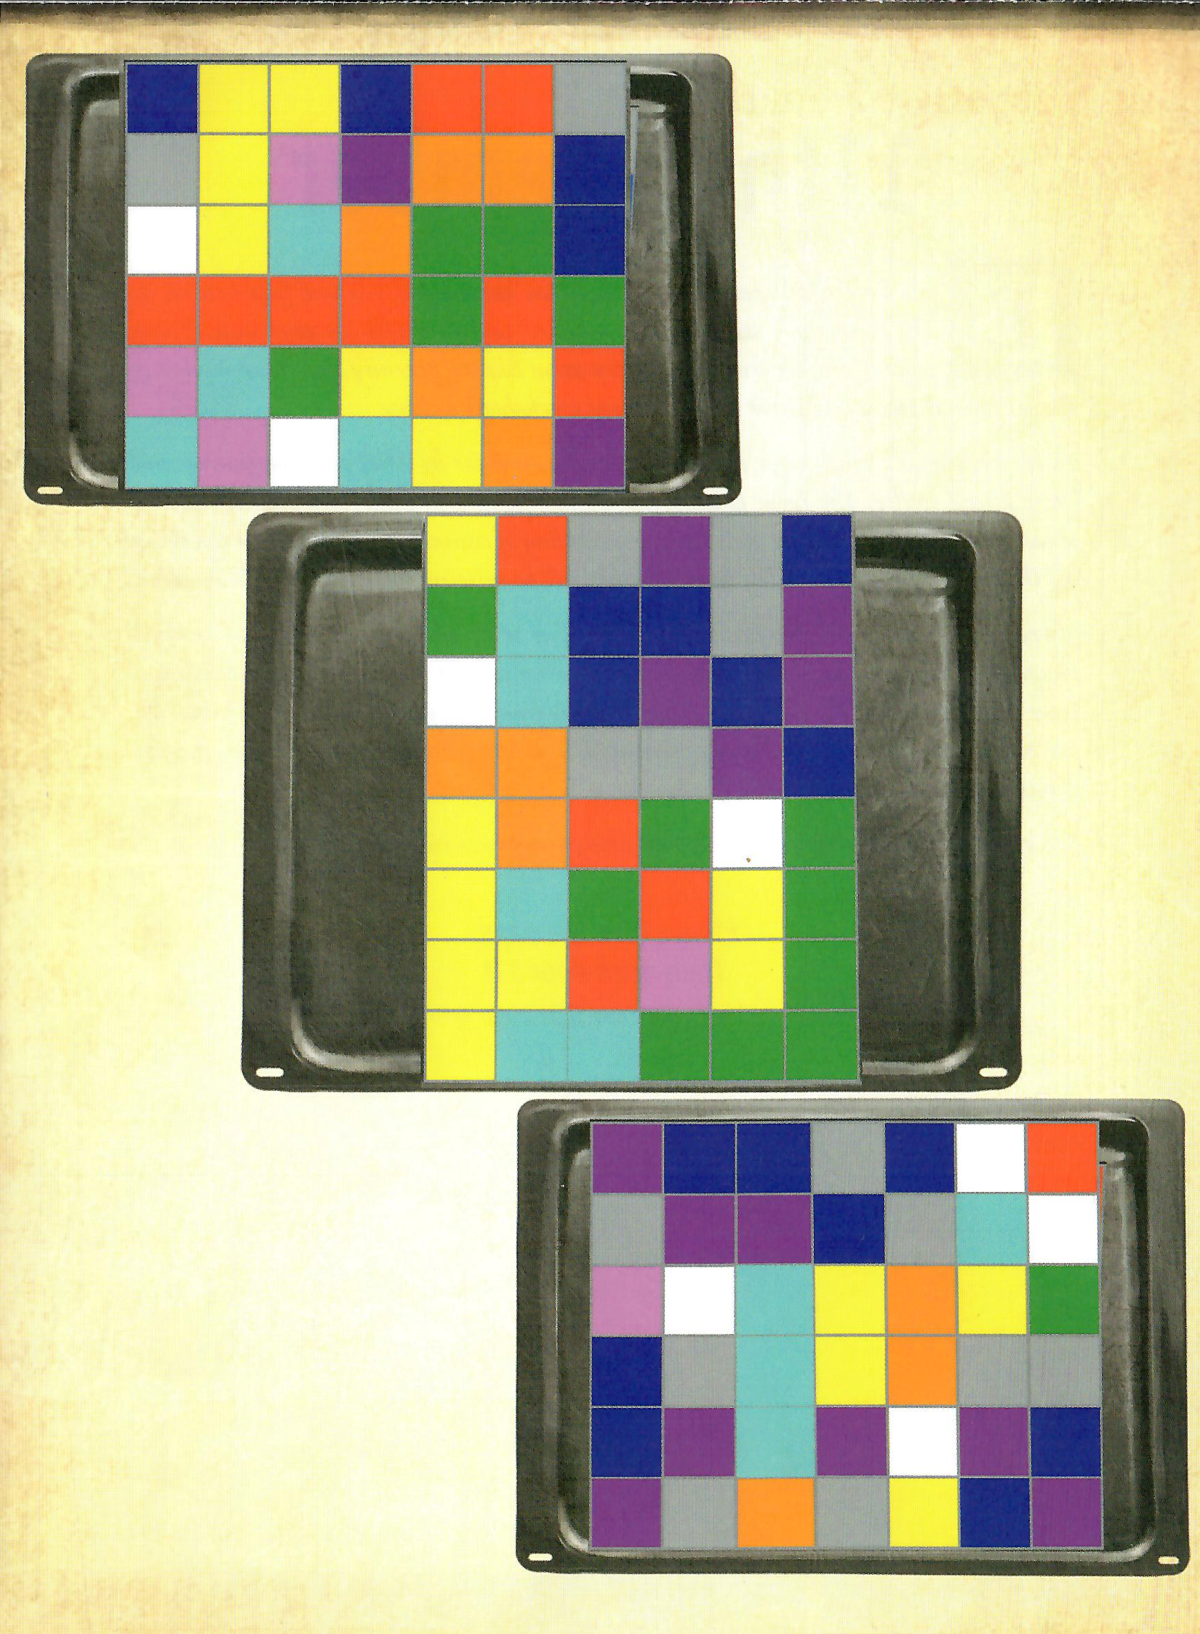
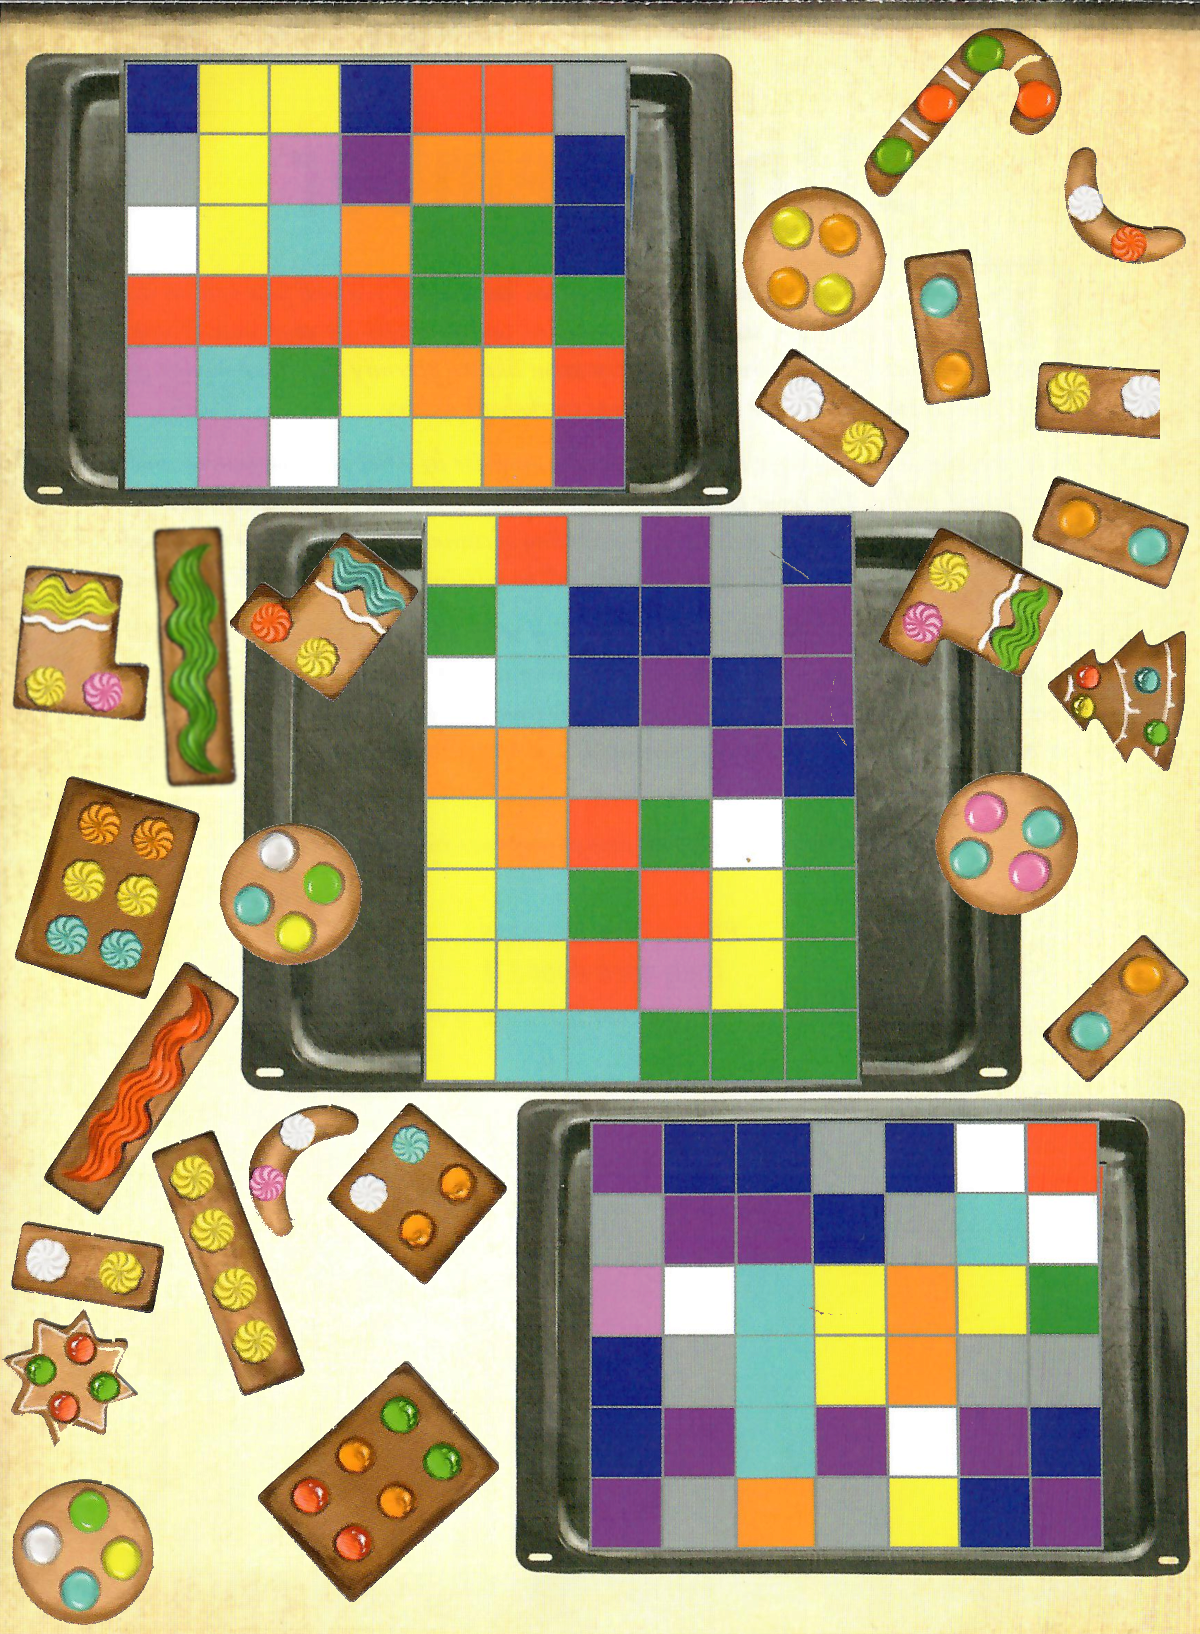
dec11

diff --git a/docs/dec11.html b/docs/dec11.html
@@ -2,3 +2,60 @@
 	<h2>Elfte December</h2>
 	<p>Ha en bra onsdag!</p>
 </section>
+<section>
+	<h2>Den tysta stormen</h2>
+	<p>Här följer dagens instruktioner.</p>
+	<p>&nbsp;</p>
+	<p>Även dessa utgör ett problem, där</p>
+	<p>svaret är ett tresiffrigt tal!</p>
+	<p>&nbsp;</p>
+	<p><a href="https://simplycalc.com/luhn-calculate.php">Checksiffran för koden</a></p>
+	<p>för elfte december är en nia!</p>
+</section>
+<section class="image-slide">
+	<a href="images/dec11a.png" data-lightbox="dec11"><img data-src="images/dec11a.png"></a>
+</section>
+<section>
+	<img data-src="images/rudolf.png">
+	<p>Rudolf har bakat pepparkakor åt tomten</p>
+	<p>Inte vilka vissna kakor som helst heller</p>
+	<p>Han har byggt grejor av olika former!</p>
+	<p>Han är så stolt! Han har glasyr </p>
+	<p>överallt (särskilt på mulen)</p>
+	<p>men just som han skulle ta ut plåtarna</p>
+	<p>hände en liten olycka!</p>
+</section>
+<section class="image-slide">
+	<a href="images/dec11b.png" data-title="Kakplåtar" data-lightbox="dec11"><img data-src="images/dec11b.png"></a>
+</section>
+<section>
+	<p>... alla bilder föll isär!</p>
+	<h2>Katastrof!</h2>
+	<p>Rudolf hade glömt att klistra</p>
+	<p>ihop formerna med glasyr</p>
+	<p>(eller så tog glasyren plötsligt</p><p>slut, obegripligt)</p>
+	<p>Kakorna ser goda ut ändå</p>
+	<p>men bilderna är borta!</p>
+</section>
+<section>
+	<a href="images/bak2.jpg" data-title="Köket" data-lightbox="dec11"><img data-src="thumbs/bak2.jpg"></a>
+	<a href="images/bak1.jpg" data-title="Köket" data-lightbox="dec11"><img data-src="thumbs/bak1.jpg"></a>
+	<p>även köket ser ut som en smärre katastrof</p>
+	<p>(men det är Rudolf inte</p><p>alls lika bekymrad över)</p>
+	<p>Han som ville visa bilderna för tomten!</p>
+</section>
+<section>
+	<img data-src="images/rudolf.png">
+	<p>"Nu vet jag!"</p><p>tänker Rudolf</p>
+	<p>man kan nog visa tomten bilderna</p>
+	<p>om man klistrar plåt-bilden</p>
+	<p>rätt in i ett ritprogram</p>
+	<p>på datorn</p>
+</section>
+<section>
+	<p>Sedan kan man bara rita</p>
+	<p>vilken kaka som skulle ha legat var</p>
+	<p>då ser tomten mina fina bilder!</p>
+	<p>&nbsp;</p>
+	<p>Tur det är spår av glasyren på plåtarna</p>
+</section>

diff --git a/docs/dec10.html b/docs/dec10.html
@@ -2,3 +2,45 @@
 	<h2>Tionde December</h2>
 	<p>Ha en bra tisdag!</p>
 </section>
+<section>
+	<h2>Den tysta stormen</h2>
+	<p>Här följer dagens instruktioner.</p>
+	<p>&nbsp;</p>
+	<p>Även dessa utgör ett problem, där</p>
+	<p>svaret är ett tresiffrigt tal!</p>
+	<p>&nbsp;</p>
+	<p><a href="https://simplycalc.com/luhn-calculate.php">Checksiffran för koden</a></p>
+	<p>för tionde december är en nolla!</p>
+</section>
+<section class="image-slide">
+	<a href="images/dec10a.png" data-lightbox="dec10"><img data-src="images/dec10a.png"></a>
+</section>
+<section>
+	<a href="images/exit-kort-j1.png" data-lightbox="dec10"><img data-src="thumbs/exit-kort-j1.png"></a>
+	<a href="images/exit-kort-j2.png" data-lightbox="dec10"><img data-src="thumbs/exit-kort-j2.png"></a>
+	<a href="images/exit-kort-j3.png" data-lightbox="dec10"><img data-src="thumbs/exit-kort-j3.png"></a>
+	<p>Rudolf tipsar om att ordningen på siffrorna</p><p>(som så ofta) är röd, blå, gul!</p>
+</section>
+<section>
+	<img data-src="images/rudolf.png">
+	<p>De små glina är så jämrans hagalna</p><p>tänker Rudolf</p>
+	<p>Tomtens släde har nog bara plats</p><p>för presenter åt ett barn i taget</p>
+	<p>&nbsp;</p>
+	<p>Annat var det när jag var renkalv</p>
+	<p>Fick man en extra lav att suga på</p>
+	<p>så var det julafton!</p>
+</section>
+<section>
+	<a href="images/present-h.png" data-title="Ovansida" data-lightbox="dec10"><img data-src="thumbs/present-h.png"></a>
+	<a href="images/presents-v.png" data-title="Undersida" data-lightbox="dec10"><img data-src="thumbs/presents-v.png"></a>
+	<a href="images/present-g.png" data-title="Spelplan" data-lightbox="dec10"><img data-src="thumbs/present-g.png"></a>
+	<p>De ser ut som paket, med översida och undersida</p>
+	<p>... men varför är det svarta prickar på rosetterna</p>
+	<p>undrar Rudolf</p>
+</section>
+<section>
+	<p>Man måste nog skriva ut dessa</p><p>tänker Rudolf</p>
+	<img data-src="images/rudolf.png">
+	<p>Rudolf var distriktsmästare i klipp å klistra</p><p>när han gick på Renfanans gymnasium.</p>
+	<p>Han har fortfarande kvar diplomet någonstans!</p>
+</section>
